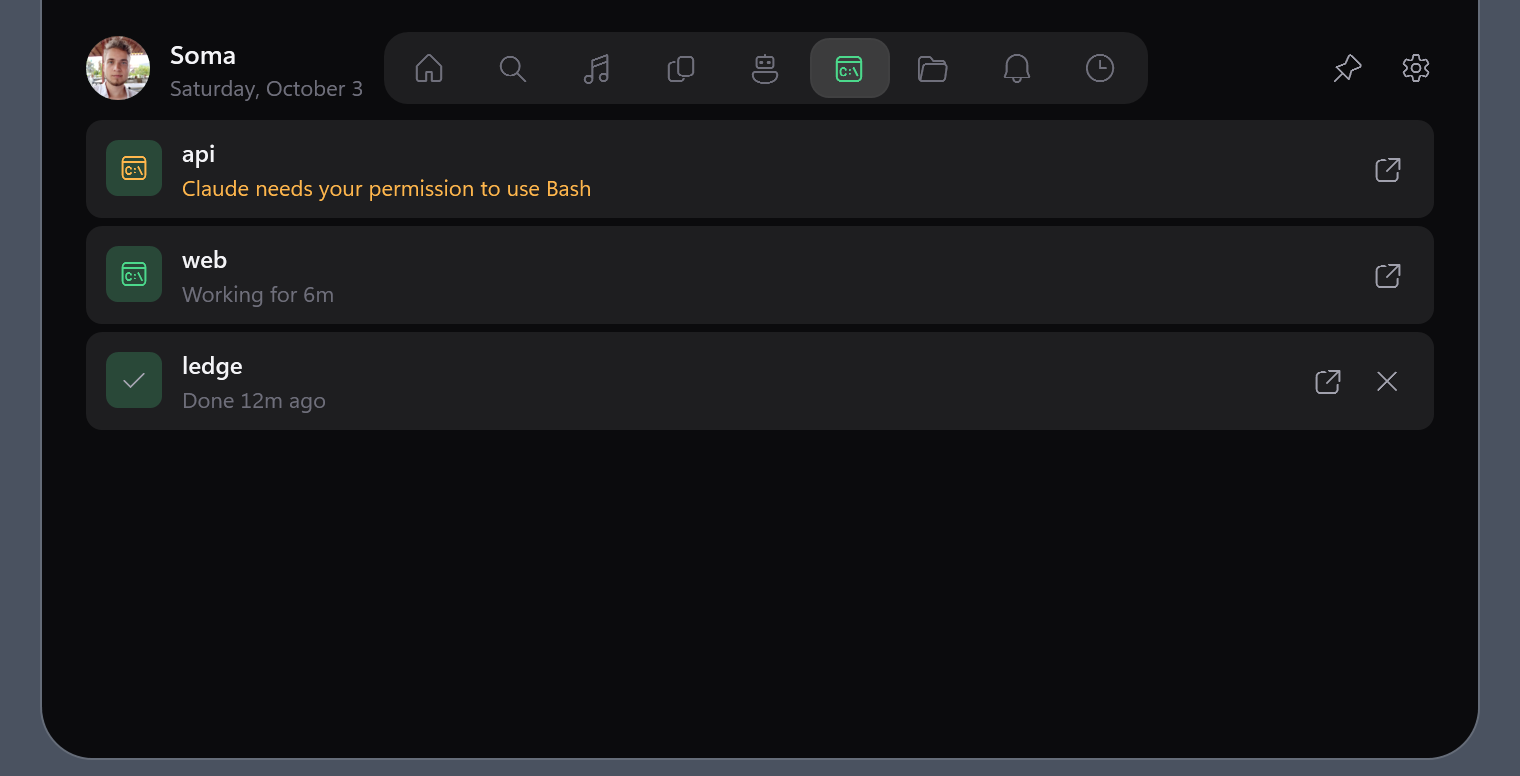
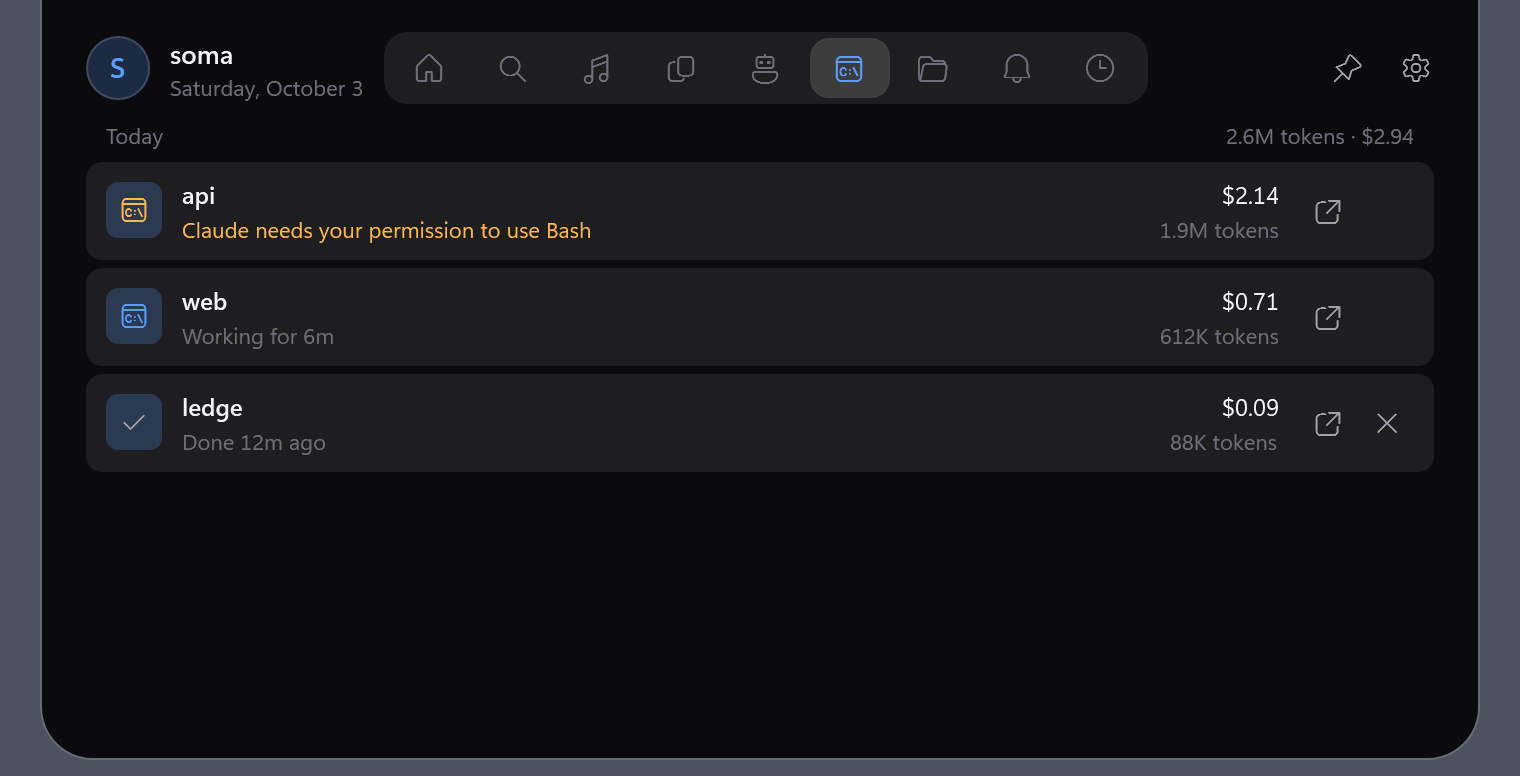
Agents: tokens and cost per session
Each row in the Agents tab shows what that Claude Code session used today
(tokens and the cost at API list prices), and a Today line at the top sums
every session. The tooltip adds the whole session and the project's total.

The hook now forwards transcript_path. A few seconds after each event the
module reads only the new lines of the transcript and its subagents' files
on the thread pool, in 256 KB chunks. Lines of one reply share a message id
and the last one wins, since some versions grow output_tokens per line.
Prices live in one table in AgentUsage.cs.

Closes #6

diff --git a/src/QNotch/Modules/Agents/AgentUsage.cs b/src/QNotch/Modules/Agents/AgentUsage.cs
@@ -1,0 +1,152 @@
+using System.Globalization;
+using System.Text.Json;
+
+namespace QNotch.Modules.Agents;
+
+/// <summary>Tokens and what they would cost at API list prices. <see cref="Unpriced"/>: some tokens came from a model the price table does not know.</summary>
+internal readonly record struct Usage(long Tokens, double Cost, bool Unpriced = false)
+{
+    public static Usage operator +(Usage a, Usage b) => new(a.Tokens + b.Tokens, a.Cost + b.Cost, a.Unpriced || b.Unpriced);
+    public static Usage operator -(Usage a, Usage b) => new(a.Tokens - b.Tokens, a.Cost - b.Cost, a.Unpriced);
+
+    /// <summary>"1.9M tokens · $2.14", empty when there is nothing to show.</summary>
+    public override string ToString() => Tokens == 0 ? "" : $"{FormatTokens(Tokens)} tokens · {FormatCost(this)}";
+
+    public static string FormatTokens(long n) => n switch
+    {
+        >= 10_000_000 => $"{n / 1_000_000}M",
+        >= 1_000_000 => (n / 1_000_000d).ToString("0.#", CultureInfo.InvariantCulture) + "M",
+        >= 1_000 => $"{n / 1_000}K",
+        _ => n.ToString(CultureInfo.InvariantCulture),
+    };
+
+    public static string FormatCost(Usage u) => u.Cost == 0 && u.Unpriced ? "price unknown"
+        : u.Cost >= 100 ? "$" + u.Cost.ToString("0", CultureInfo.InvariantCulture)
+        : "$" + u.Cost.ToString("0.00", CultureInfo.InvariantCulture);
+}
+
+/// <summary>
+/// API list prices in USD per million tokens. Cache writes cost 1.25x input (5 minute cache) or 2x (1 hour cache), fast mode 2x everything.
+/// First matching prefix wins, so a specific id goes before the family it belongs to. Source: platform.claude.com pricing, October 2026.
+/// </summary>
+internal static class AgentPrices
+{
+    static readonly (string Prefix, double In, double Out, double CacheRead)[] Table =
+    [
+        ("claude-fable-5-1", 10, 50, 0.25),
+        ("claude-mythos-5-1", 10, 50, 0.25),
+        ("claude-fable-5", 10, 50, 1),
+        ("claude-mythos-5", 10, 50, 1),
+        ("claude-opus-5-5", 4, 20, 0.20),
+        ("claude-opus-5", 5, 25, 0.50),
+        ("claude-opus-4-5", 5, 25, 0.50),
+        ("claude-opus-4-6", 5, 25, 0.50),
+        ("claude-opus-4-7", 5, 25, 0.50),
+        ("claude-opus-4-8", 5, 25, 0.50),
+        ("claude-opus-4", 15, 75, 1.50), // 4.0 and 4.1
+        ("claude-sonnet-5", 2, 10, 0.20), // 5 and 5.5
+        ("claude-sonnet-4", 3, 15, 0.30),
+        ("claude-3-7-sonnet", 3, 15, 0.30),
+        ("claude-haiku-4", 1, 5, 0.10),
+        ("claude-3-5-haiku", 0.80, 4, 0.08),
+    ];
+
+    /// <summary>The cost of one message's <c>usage</c>, or null for a model not in the table.</summary>
+    public static double? Cost(string model, long input, long write5m, long write1h, long read, long output, bool fast)
+    {
+        foreach (var p in Table)
+        {
+            if (!model.StartsWith(p.Prefix, StringComparison.Ordinal)) continue;
+            var usd = (input * p.In + write5m * p.In * 1.25 + write1h * p.In * 2 + read * p.CacheRead + output * p.Out) / 1_000_000;
+            return fast ? usd * 2 : usd;
+        }
+        return null;
+    }
+}
+
+/// <summary>
+/// Reads one session's token usage from the transcripts Claude Code writes (the session's .jsonl and its subagents' files), picking up
+/// where the last read stopped. Not thread safe: the module runs one read per session at a time, on the thread pool.
+/// </summary>
+internal sealed class UsageReader
+{
+    const int Chunk = 256 * 1024;
+    static readonly byte[] AssistantMark = "\"type\":\"assistant\""u8.ToArray();
+
+    /// <summary>
+    /// Per file: where the next read starts, and the reply counted last. Each content block of a reply is its own line with the same
+    /// message id, written one after the other; some versions grow <c>output_tokens</c> from line to line, so the last line counts.
+    /// </summary>
+    readonly Dictionary<string, (long Offset, string? Id, DateOnly Day, Usage Usage)> _files = [];
+    readonly Dictionary<DateOnly, Usage> _days = [];
+
+    /// <summary>Bytes the last <see cref="Read"/> went through: the first read of a long session can be megabytes.</summary>
+    public long BytesRead { get; private set; }
+
+    /// <summary>Usage per local day, a copy the UI thread may keep.</summary>
+    public Dictionary<DateOnly, Usage> Read(string transcript)
+    {
+        BytesRead = 0;
+        ReadFile(transcript);
+        var subagents = Path.Combine(Path.ChangeExtension(transcript, null), "subagents");
+        if (Directory.Exists(subagents))
+            foreach (var f in Directory.EnumerateFiles(subagents, "*.jsonl")) ReadFile(f);
+        return new(_days);
+    }
+
+    void ReadFile(string path)
+    {
+        try
+        {
+            using var fs = new FileStream(path, FileMode.Open, FileAccess.Read, FileShare.ReadWrite | FileShare.Delete);
+            var state = _files.GetValueOrDefault(path);
+            if (fs.Length < state.Offset) return; // rewritten: leave the counts alone rather than count it twice
+            fs.Position = state.Offset;
+            var buf = new byte[Math.Min(Chunk, fs.Length - state.Offset)];
+            for (int carry = 0, n; buf.Length > 0 && (n = fs.Read(buf, carry, buf.Length - carry)) > 0;)
+            {
+                var data = buf.AsSpan(0, carry + n);
+                var done = 0;
+                for (int nl; (nl = data[done..].IndexOf((byte)'\n')) >= 0; done += nl + 1)
+                    if (data.Slice(done, nl).IndexOf(AssistantMark) >= 0) Add(data.Slice(done, nl), ref state);
+                state.Offset += done; // a line still being written waits for the next read
+                BytesRead += done;
+                carry = data.Length - done;
+                if (done == 0) Array.Resize(ref buf, buf.Length * 2); // one line longer than the buffer
+                else data[done..].CopyTo(buf);
+            }
+            _files[path] = state;
+        }
+        catch (Exception ex) when (ex is IOException or UnauthorizedAccessException) { /* gone or locked: try again on the next change */ }
+    }
+
+    void Add(ReadOnlySpan<byte> line, ref (long Offset, string? Id, DateOnly Day, Usage Usage) last)
+    {
+        try
+        {
+            using var doc = JsonDocument.Parse(line.ToArray());
+            var root = doc.RootElement;
+            if (!root.TryGetProperty("message", out var m) || !m.TryGetProperty("usage", out var u) || u.ValueKind != JsonValueKind.Object) return;
+
+            long N(JsonElement o, string name) => o.ValueKind == JsonValueKind.Object && o.TryGetProperty(name, out var v) && v.TryGetInt64(out var n) ? n : 0;
+            long input = N(u, "input_tokens"), read = N(u, "cache_read_input_tokens"), output = N(u, "output_tokens"), write = N(u, "cache_creation_input_tokens");
+            var cc = u.TryGetProperty("cache_creation", out var c) ? c : default;
+            long write1h = N(cc, "ephemeral_1h_input_tokens"), write5m = Math.Max(0, write - write1h);
+            var tokens = input + write + read + output;
+            if (tokens == 0) return;
+
+            var model = m.TryGetProperty("model", out var mo) ? mo.GetString() ?? "" : "";
+            var fast = u.TryGetProperty("speed", out var sp) && sp.ValueEquals("fast");
+            var cost = AgentPrices.Cost(model, input, write5m, write1h, read, output, fast);
+            var usage = new Usage(tokens, cost ?? 0, cost is null);
+            var id = m.TryGetProperty("id", out var i) ? i.GetString() : null;
+            if (id is not null && id == last.Id) _days[last.Day] = _days[last.Day] - last.Usage; // a later line of the same reply replaces it
+            else
+                last.Day = root.TryGetProperty("timestamp", out var ts) && ts.TryGetDateTime(out var t) ? DateOnly.FromDateTime(t.ToLocalTime()) : DateOnly.FromDateTime(DateTime.Now);
+            last.Id = id;
+            last.Usage = usage;
+            _days[last.Day] = _days.GetValueOrDefault(last.Day) + usage;
+        }
+        catch (JsonException) { }
+    }
+}

diff --git a/src/QNotch/Modules/Agents/AgentsModule.cs b/src/QNotch/Modules/Agents/AgentsModule.cs
@@ -26,13 +26,33 @@ internal sealed class AgentSession(string id)
     public int Pid { get; set; }
     /// <summary>The tool a permission prompt or question waits on, so other tools' events leave "needs you" alone.</summary>
     public string? WaitingTool { get; set; }
+    /// <summary>The transcript Claude Code writes, where the token usage comes from.</summary>
+    public string Transcript { get; set; } = "";
+    /// <summary>Owned by the thread pool while <see cref="UsagePending"/> is true.</summary>
+    public UsageReader? Reader { get; set; }
+    public bool UsagePending { get; set; }
+    /// <summary>An event came in while a read ran: read again when it is done.</summary>
+    public bool UsageStale { get; set; }
+}
+
+/// <summary>A session's usage per local day. Kept after its row goes, so Today does not shrink when a terminal closes.</summary>
+internal sealed record SessionUsage(string Cwd, Dictionary<DateOnly, Usage> Days)
+{
+    public Usage Total => Days.Values.Aggregate(default(Usage), (a, b) => a + b);
+    public Usage Today => Days.GetValueOrDefault(DateOnly.FromDateTime(DateTime.Now));
 }
 
 /// <summary>What the views show. The list raises <see cref="Changed"/>; the pill binds to the observable properties.</summary>
 internal sealed partial class AgentsState : ObservableObject
 {
     public List<AgentSession> Sessions { get; } = [];
+    /// <summary>Usage by session id, for sessions shown now or earlier today.</summary>
+    public Dictionary<string, SessionUsage> Usage { get; } = [];
     public event Action? Changed;
+
+    public Usage Today => Usage.Values.Aggregate(default(Usage), (a, b) => a + b.Today);
+    /// <summary>Today across every session in <paramref name="cwd"/>.</summary>
+    public Usage ProjectToday(string cwd) => Usage.Values.Where(u => u.Cwd == cwd).Aggregate(default(Usage), (a, b) => a + b.Today);
 
     /// <summary>"api needs you" or "2 working", empty while nothing runs.</summary>
     [ObservableProperty] string _pillText = "";
@@ -54,6 +74,8 @@ internal sealed partial class AgentsState : ObservableObject
             _ => working > 0 ? $"{working} working" : "",
         };
         PillVisible = PillText.Length > 0;
+        foreach (var id in Usage.Where(u => u.Value.Today.Tokens == 0 && !Sessions.Exists(s => s.Id == u.Key)).Select(u => u.Key).ToList())
+            Usage.Remove(id);
         Changed?.Invoke();
     }
 
@@ -61,7 +83,7 @@ internal sealed partial class AgentsState : ObservableObject
 }
 
 /// <summary>One line from the hook (see <see cref="AgentHook"/>).</summary>
-internal sealed record AgentEvent(string Agent, string Event, string Session, string Cwd, string? Message, string? Type, string? Tool, int Pid, long Hwnd, long At);
+internal sealed record AgentEvent(string Agent, string Event, string Session, string Cwd, string? Message, string? Type, string? Tool, int Pid, long Hwnd, long At, string? Transcript = null);
 
 /// <summary>
 /// Live Claude Code sessions: working, needs you, done. Claude Code runs <c>QNotch.exe agent</c> on each event and the hook sends one
@@ -178,6 +200,7 @@ public sealed partial class AgentsModule : INotchModule, ICadenceAware
         else if (e.At < s.At) return;
         s.At = e.At;
         if (e.Cwd.Length > 0) s.Cwd = e.Cwd;
+        if (e.Transcript is { Length: > 0 } tp) s.Transcript = tp;
         if (e.Hwnd != 0) s.Window = (nint)e.Hwnd;
         if (e.Pid > 0 && s.Pid != e.Pid) { s.Pid = e.Pid; Watch(e.Pid); }
 
@@ -210,8 +233,39 @@ public sealed partial class AgentsModule : INotchModule, ICadenceAware
                 : e.Event == "PreToolUse" ? e.Tool
                 : PermissionTool().Match(s.Message) is { Success: true } m ? m.Groups[1].Value : null;
         }
+        ReadUsage(s);
         _st.Raise();
     }
+
+    /// <summary>
+    /// Every event means the transcript changed: read the new lines a few seconds later, so a burst of tool calls costs one read.
+    /// The first read of a long session parses its whole transcript once; later reads only what was appended.
+    /// </summary>
+    void ReadUsage(AgentSession s)
+    {
+        if (s.Transcript.Length == 0) return;
+        if (s.UsagePending) { s.UsageStale = true; return; }
+        (s.UsagePending, s.UsageStale) = (true, false);
+        var (path, reader) = (s.Transcript, s.Reader ??= new UsageReader());
+        Task.Run(async () =>
+        {
+            await Task.Delay(UsageDelay);
+            Dictionary<DateOnly, Usage>? days = null;
+            try { days = reader.Read(path); }
+            catch (Exception ex) { Log.Warn("Reading agent usage failed", ex); }
+            _ctx.Bus.Run(() =>
+            {
+                s.UsagePending = false;
+                if (s.UsageStale && _st.Sessions.Contains(s)) ReadUsage(s);
+                if (days is null) return;
+                if (reader.BytesRead > 1_000_000) MemoryTrim.AfterActivity();
+                _st.Usage[s.Id] = new SessionUsage(s.Cwd, days);
+                _st.Raise();
+            });
+        });
+    }
+
+    static readonly TimeSpan UsageDelay = TimeSpan.FromSeconds(3);
 
     /// <summary>"Claude needs your permission to use Bash" names the tool it waits on.</summary>
     [System.Text.RegularExpressions.GeneratedRegex(@"permission to use (\S+)$")]
@@ -256,6 +310,10 @@ public sealed partial class AgentsModule : INotchModule, ICadenceAware
             new("2") { Cwd = @"C:\code\web", Status = AgentStatus.Working, Since = now.AddMinutes(-6), Window = 1 },
             new("3") { Cwd = @"C:\code\ledge", Status = AgentStatus.Done, Since = now.AddMinutes(-12), Window = 1 },
         ]);
+        var today = DateOnly.FromDateTime(DateTime.Now);
+        _st.Usage["1"] = new(@"C:\code\api", new() { [today] = new(1_940_000, 2.14) });
+        _st.Usage["2"] = new(@"C:\code\web", new() { [today] = new(612_000, 0.71), [today.AddDays(-1)] = new(3_200_000, 3.80) });
+        _st.Usage["3"] = new(@"C:\code\ledge", new() { [today] = new(88_000, 0.09) });
         _st.Raise();
     }
 }

diff --git a/src/QNotch/Modules/Agents/AgentsViews.cs b/src/QNotch/Modules/Agents/AgentsViews.cs
@@ -67,7 +67,40 @@ internal static class AgentsViews
         return b;
     }
 
-    public static UIElement Row(AgentsModule module, AgentSession s)
+    const string PriceNote = "At API list prices. A Pro or Max plan is not billed per token.";
+
+    /// <summary>Right side of a row: what the session used today. Null before any usage is known.</summary>
+    static FrameworkElement? UsageColumn(AgentsState st, AgentSession s)
+    {
+        if (!st.Usage.TryGetValue(s.Id, out var u) || u.Today.Tokens == 0) return null;
+        var cost = new TextBlock { Text = Usage.FormatCost(u.Today), FontSize = 12, HorizontalAlignment = HorizontalAlignment.Right };
+        var tokens = UiKit.Text($"{Usage.FormatTokens(u.Today.Tokens)} tokens", "Muted");
+        tokens.HorizontalAlignment = HorizontalAlignment.Right;
+        tokens.Margin = new Thickness(0, 2, 0, 0);
+        var tip = $"Today: {u.Today}";
+        if (u.Total.Tokens != u.Today.Tokens) tip += $"\nWhole session: {u.Total}";
+        if (st.ProjectToday(s.Cwd) is var p && p.Tokens != u.Today.Tokens) tip += $"\nToday in {s.Name}: {p}";
+        var col = new StackPanel { VerticalAlignment = VerticalAlignment.Center, Margin = new Thickness(8, 0, 0, 0), Background = Brushes.Transparent, ToolTip = $"{tip}\n{PriceNote}" };
+        col.Children.Add(cost);
+        col.Children.Add(tokens);
+        return col;
+    }
+
+    /// <summary>Top of the tab: today across every session. Null before any usage is known.</summary>
+    public static FrameworkElement? TodayLine(AgentsState st)
+    {
+        var today = st.Today;
+        if (today.Tokens == 0) return null;
+        var label = UiKit.Text("Today", "Muted");
+        var value = UiKit.Text(today.ToString(), "Muted");
+        value.HorizontalAlignment = HorizontalAlignment.Right;
+        var g = new Grid { Margin = new Thickness(10, 0, 10, 6), Background = Brushes.Transparent, ToolTip = $"Every Claude Code session today.\n{PriceNote}" };
+        g.Children.Add(label);
+        g.Children.Add(value);
+        return g;
+    }
+
+    public static UIElement Row(AgentsModule module, AgentsState st, AgentSession s)
     {
         var icon = UiKit.Glyph(s.Status == AgentStatus.Done ? Glyphs.Accept : AgentsModule.Icon, 14, StatusBrush(s.Status));
         icon.HorizontalAlignment = HorizontalAlignment.Center;
@@ -85,7 +118,8 @@ internal static class AgentsViews
         text.Children.Add(name);
         text.Children.Add(meta);
 
-        var buttons = new StackPanel { Orientation = Orientation.Horizontal, VerticalAlignment = VerticalAlignment.Center, Margin = new Thickness(8, 0, 0, 0) };
+        // Room for both buttons on every row, so the usage column lines up.
+        var buttons = new StackPanel { Orientation = Orientation.Horizontal, VerticalAlignment = VerticalAlignment.Center, Margin = new Thickness(8, 0, 0, 0), MinWidth = 60 };
         if (s.Window != 0) buttons.Children.Add(IconButton(ShowGlyph, "Show its terminal", () => module.Show(s)));
         if (s.Status is AgentStatus.Done or AgentStatus.Ready) buttons.Children.Add(IconButton(Glyphs.Close, "Clear", () => module.Dismiss(s)));
 
@@ -93,11 +127,17 @@ internal static class AgentsViews
         g.ColumnDefinitions.Add(new ColumnDefinition { Width = GridLength.Auto });
         g.ColumnDefinitions.Add(new ColumnDefinition());
         g.ColumnDefinitions.Add(new ColumnDefinition { Width = GridLength.Auto });
+        g.ColumnDefinitions.Add(new ColumnDefinition { Width = GridLength.Auto });
         Grid.SetColumn(text, 1);
-        Grid.SetColumn(buttons, 2);
+        Grid.SetColumn(buttons, 3);
         g.Children.Add(tile);
         g.Children.Add(text);
         g.Children.Add(buttons);
+        if (UsageColumn(st, s) is { } usage)
+        {
+            Grid.SetColumn(usage, 2);
+            g.Children.Add(usage);
+        }
         return Hover(g);
     }
 }
@@ -133,7 +173,8 @@ internal sealed class AgentsTab : Grid
     {
         _empty.Visibility = _st.Sessions.Count == 0 ? Visibility.Visible : Visibility.Collapsed;
         _rows.Children.Clear();
-        foreach (var s in _st.Sessions) _rows.Children.Add(AgentsViews.Row(_module, s));
+        if (_st.Sessions.Count > 0 && AgentsViews.TodayLine(_st) is { } today) _rows.Children.Add(today);
+        foreach (var s in _st.Sessions) _rows.Children.Add(AgentsViews.Row(_module, _st, s));
     }
 }
 

diff --git a/src/QNotch/Modules/Agents/AgentHook.cs b/src/QNotch/Modules/Agents/AgentHook.cs
@@ -57,6 +57,7 @@ internal static class AgentHook
             w.WriteString("event", evt);
             w.WriteString("session", Str(e, "session_id") ?? "");
             w.WriteString("cwd", Str(e, "cwd") ?? "");
+            if (Str(e, "transcript_path") is { } tp) w.WriteString("transcript", tp);
             if (message is not null) w.WriteString("message", message);
             if (Str(e, "notification_type") is { } nt) w.WriteString("type", nt);
             if (tool is not null) w.WriteString("tool", tool);

diff --git a/README.md b/README.md
@@ -14,7 +14,7 @@ A notch for Windows 11. A slim pill at the top of your screen shows what is play
 - **Mic and camera:** a glyph in the pill and the game bar while an app uses your microphone or camera.
 - **Notifications:** any app or script can post one, with buttons. See [docs/notifications.md](docs/notifications.md).
 - **Search** across clipboard, files, notes, notifications and settings.
-- **Agents:** every Claude Code session in the pill and the Agents tab: working, needs you or done. One click in Settings, Agents connects Claude Code.
+- **Agents:** every Claude Code session in the pill and the Agents tab: working, needs you or done, with the tokens each one used today and what that would cost at API list prices. One click in Settings, Agents connects Claude Code.
 - **AI apps:** launch them with Alt+1 to Alt+6 and see your Claude Code and Codex usage limits.
 - **Note, GitHub contribution graph, file tray, volume, timer, color picker** and your **scheduled tasks**.
 - **Game mode:** when a game or fullscreen video is running, the notch shrinks to a one-line status bar.
@@ -63,7 +63,7 @@ QNotch only goes online for two things, both visible in Settings:
 - **GitHub:** your contribution graph, once you add a token.
 - **Claude Code usage:** it sends your local Claude Code sign-in to Anthropic's usage endpoint. That endpoint is undocumented, so it may break. Turn it off in Settings, AI.
 
-Codex usage is read from Codex's local files. Agents changes only Claude Code's `settings.json` (with a backup) when you click Connect, and its hook talks to QNotch over a local pipe.
+Codex usage is read from Codex's local files. Agents changes only Claude Code's `settings.json` (with a backup) when you click Connect, and its hook talks to QNotch over a local pipe. Token counts come from the transcripts Claude Code already keeps on your PC.
 
 ## Performance
 
